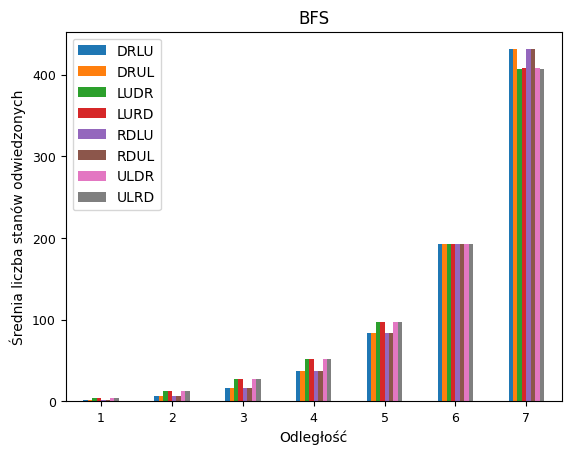
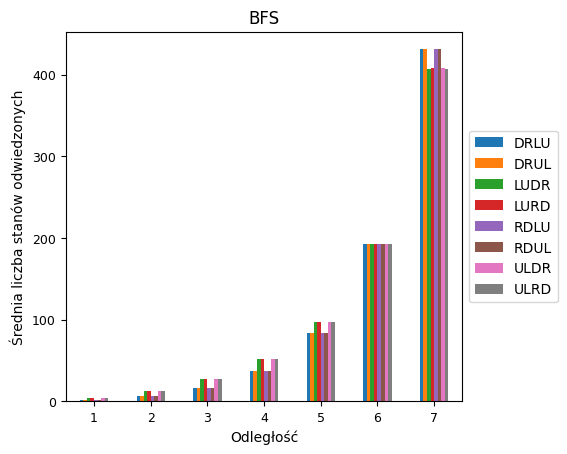
fin

diff --git a/zad1/src/extractor.py b/zad1/src/extractor.py
@@ -111,7 +111,7 @@ def max_stats(statsList: list[Stats]) -> Stats:
                 max_time = stat.time
             if stat.maxDepth > max_maxDepth:
                 max_maxDepth = stat.maxDepth
-
+    print("-",max_visited)
     max_stats = Stats(0, "", "", max_length, max_visited, max_computed, max_time, max_maxDepth)
     return max_stats
 
@@ -189,6 +189,11 @@ def groupedBarChart(groups: dict[object, dict[object, Stats]], title: str, yLabe
     ax.set_ylabel(yLabel)
     ax.set_xlabel(xLabel)
     ax.set_title(title)
+    box = ax.get_position()
+    ax.set_position([box.x0, box.y0, box.width * 0.8, box.height])
+    ax.legend(loc='center left', bbox_to_anchor=(1, 0.5))
+ 
+   
 
     plt.savefig(filepath, bbox_inches='tight', dpi=100)
     #plt.show()
@@ -268,7 +273,7 @@ def main():
         groupedBarChart(avg_length[t], type, "Średnia długość rozwiązania", "Odległość", join(wykresyPath, f"{t.lower()}_długość.png"))
         groupedBarChart(avg_visited[t], type, "Średnia liczba stanów odwiedzonych", "Odległość", join(wykresyPath, f"{t.lower()}_odwiedzone.png"))
         groupedBarChart(avg_computed[t], type, "Średnia liczba stanów przetworzonych", "Odległość", join(wykresyPath, f"{t.lower()}_przetworzone.png"))
-        groupedBarChart(avg_time[t], type, "Średni czas rozwiązywania (ms)", "Odległość", join(wykresyPath, f"{t.lower()}_czas.png"))
+        groupedBarChart(avg_time[t], type, "Średni czas rozwiązywania (s)", "Odległość", join(wykresyPath, f"{t.lower()}_czas.png"))
         groupedBarChart(avg_maxDepth[t], type, "Średnia maksymalna głębokość rekursji", "Odległość", join(wykresyPath, f"{t.lower()}_rekursja.png"))
 
 
